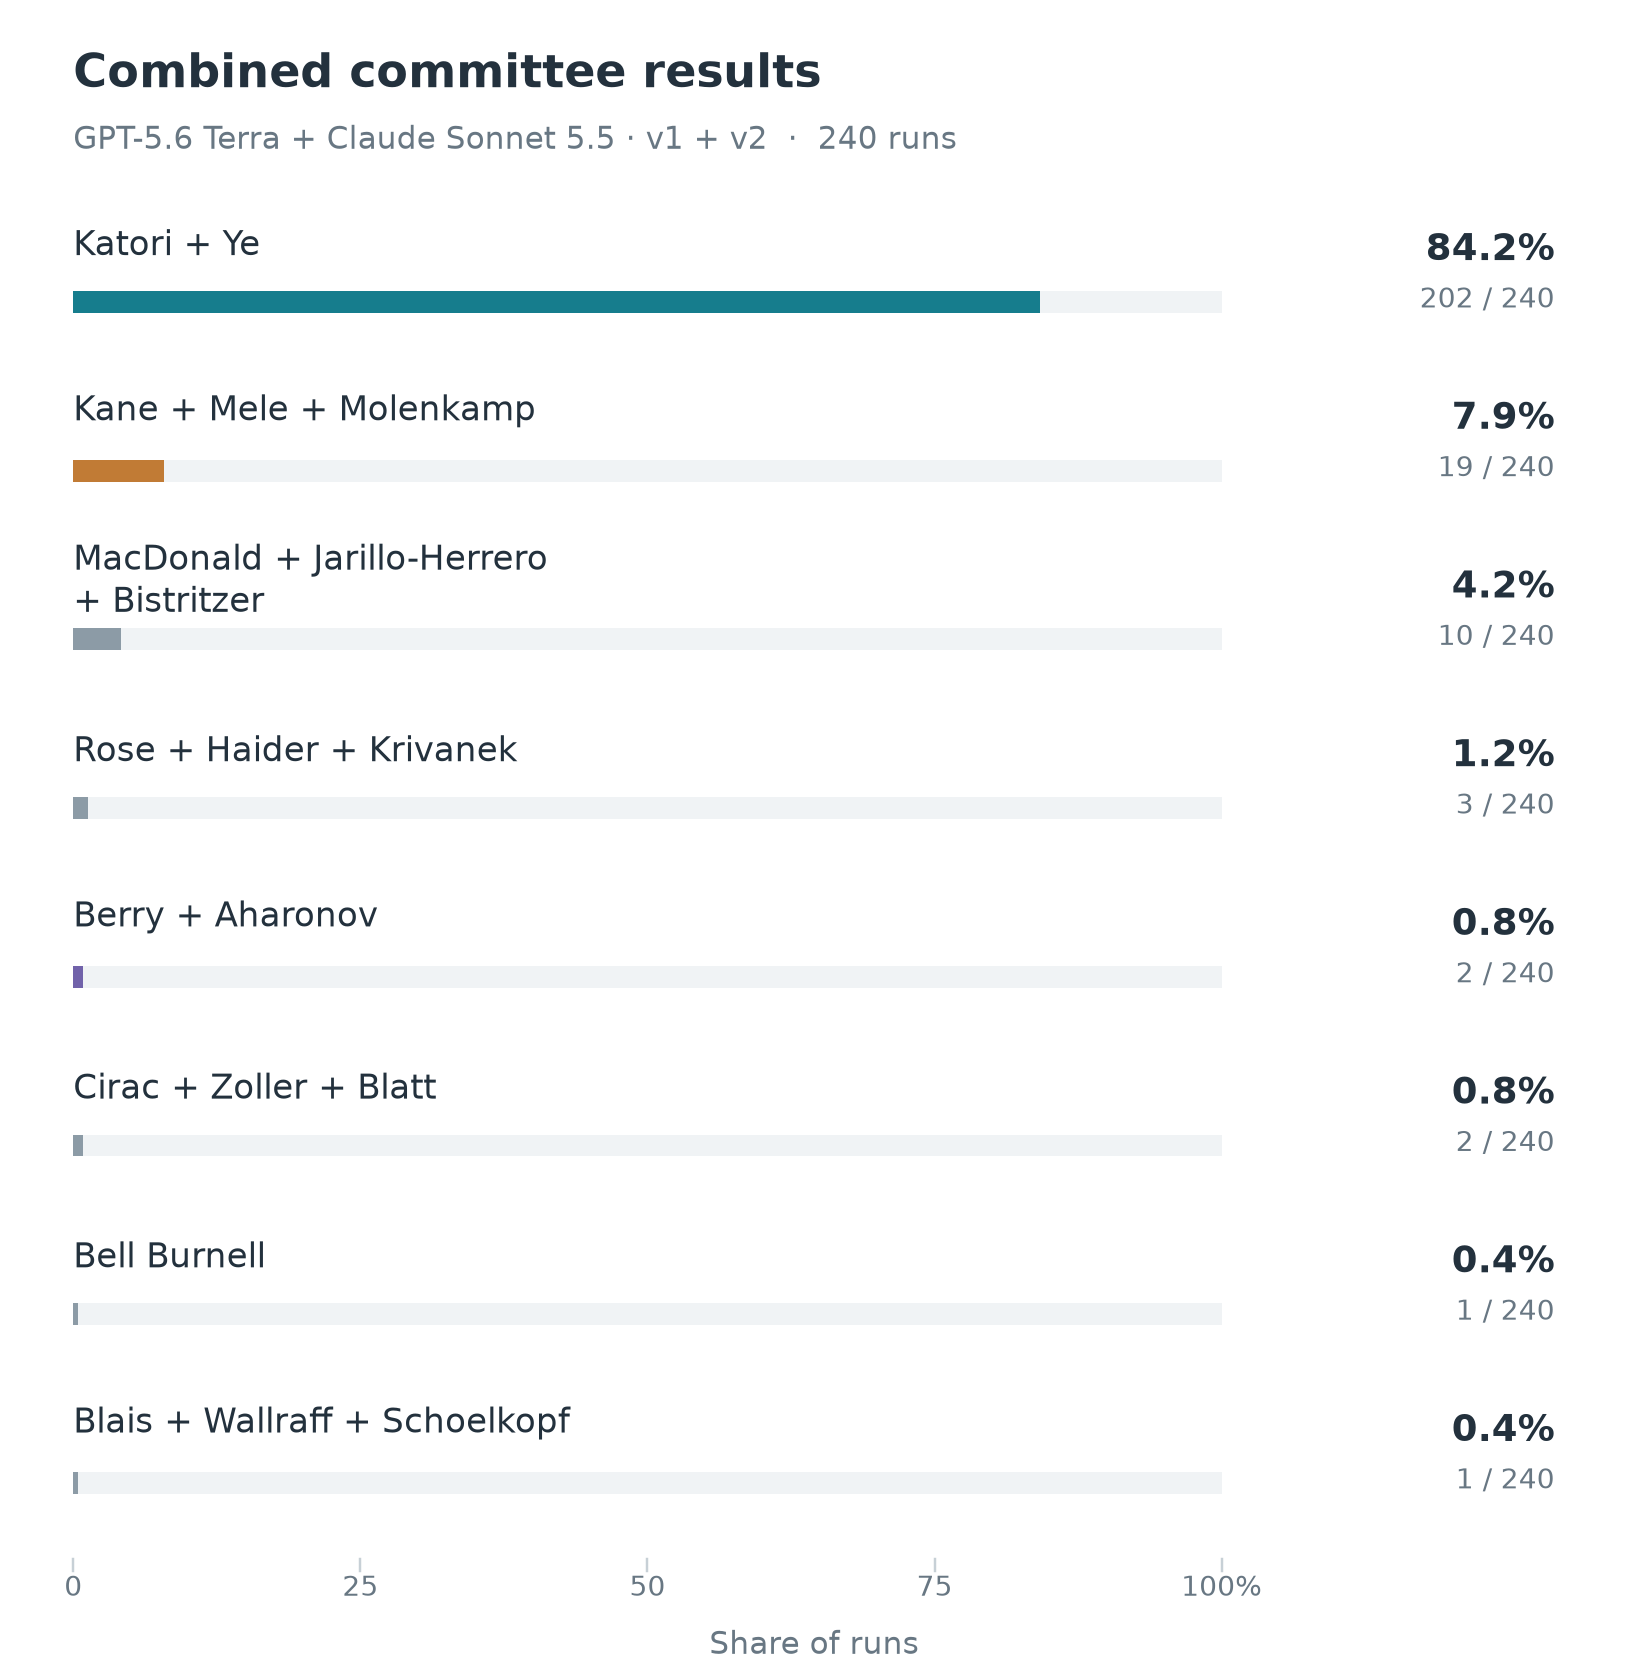
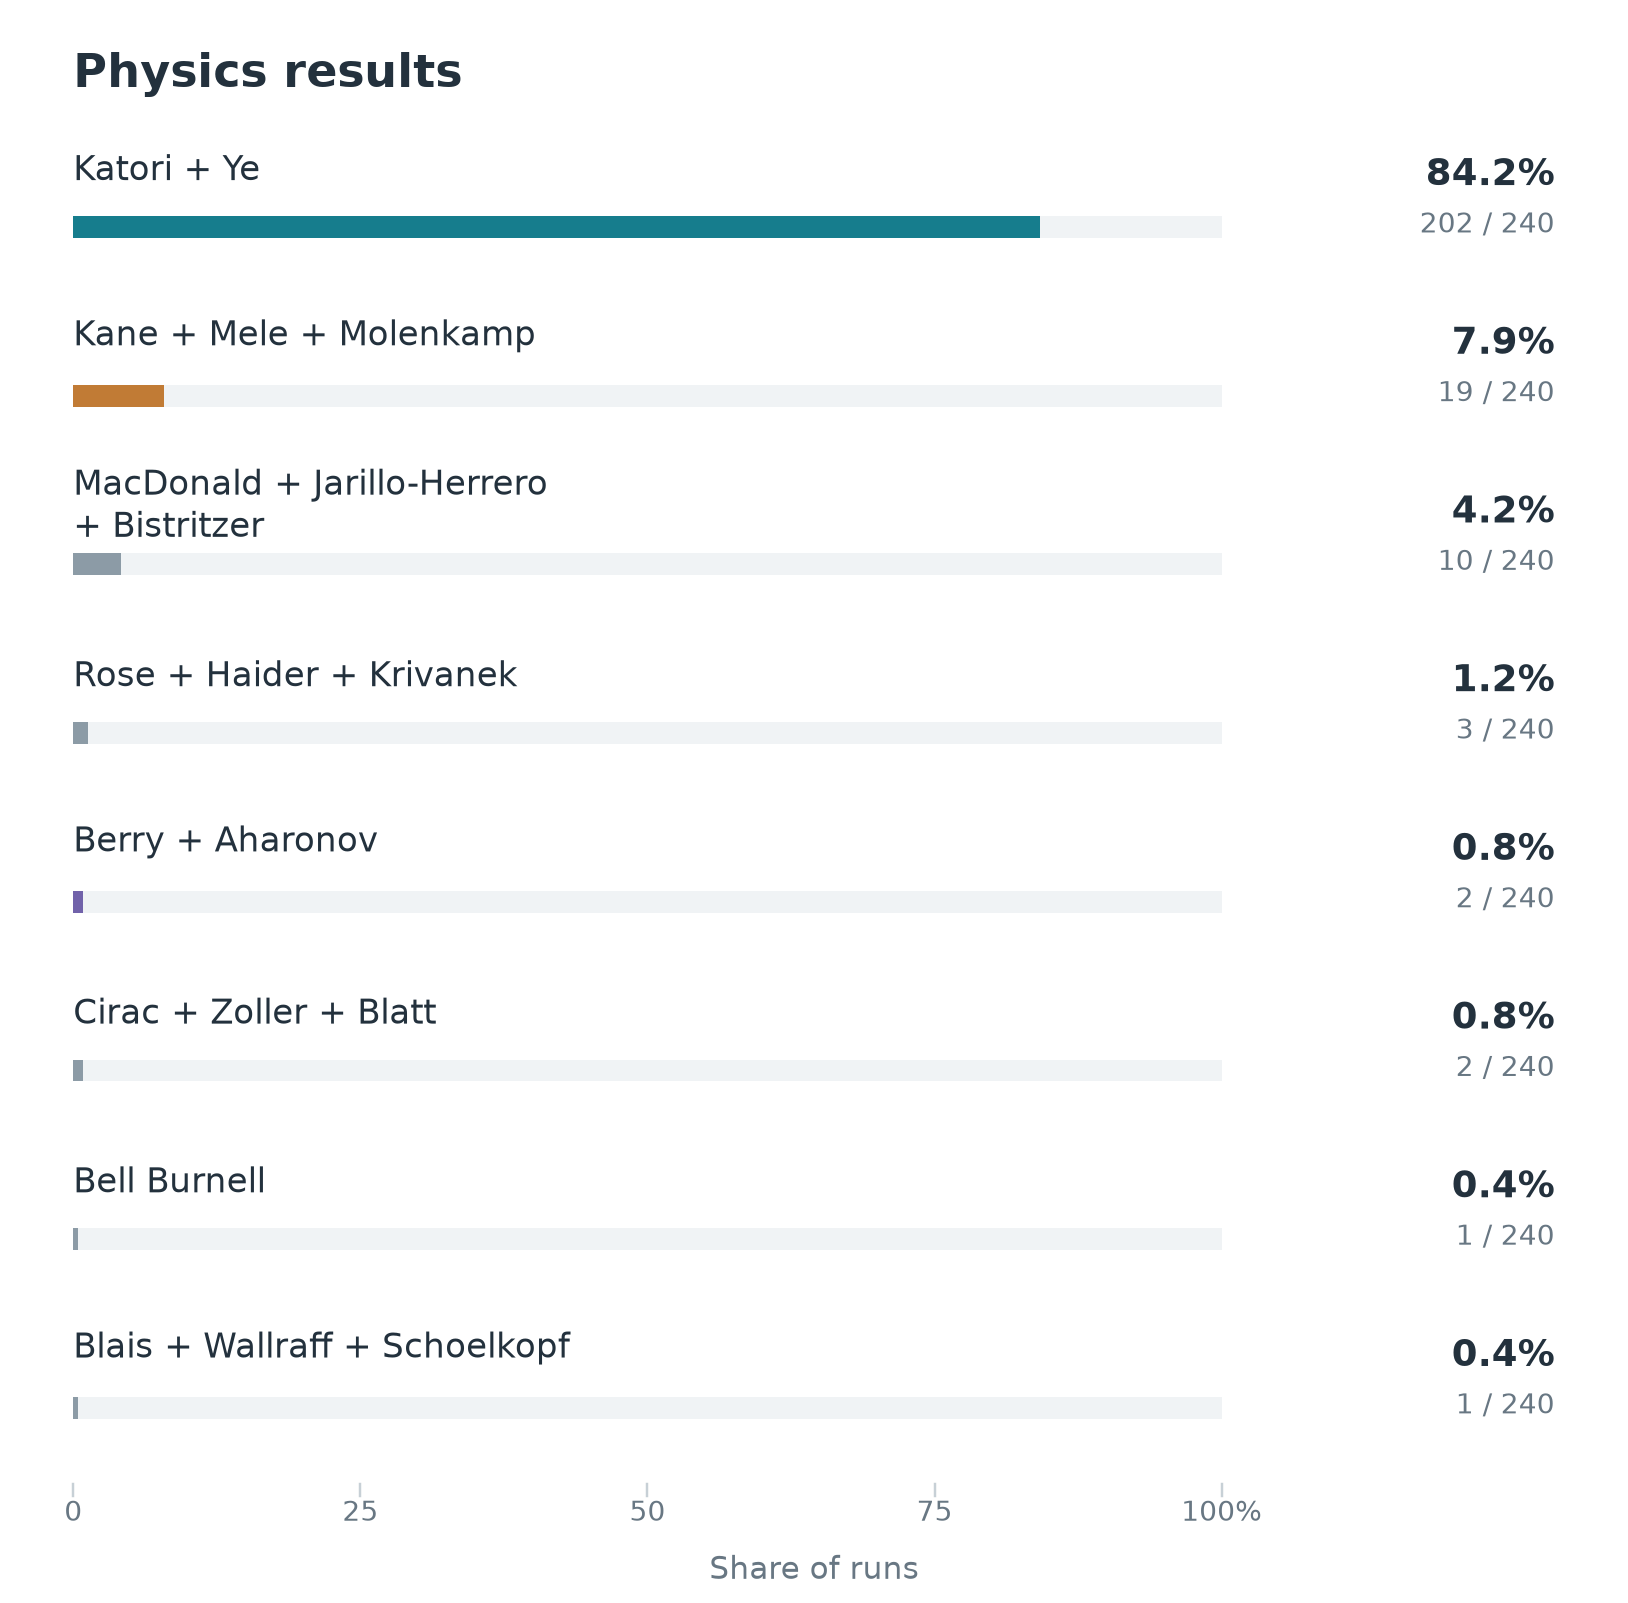
docs: simplify results presentation and move comparison details

diff --git a/scripts/plot_physics_prediction_distributions.py b/scripts/plot_physics_prediction_distributions.py
@@ -126,7 +126,7 @@ def display_label(label: str) -> str:
 def plot(
     filename: str,
     title: str,
-    subtitle: str,
+    subtitle: str | None,
     counts: Counter[str],
     row_count: int,
 ) -> None:
@@ -134,16 +134,18 @@ def plot(
     total = sum(counts.values())
     if total == 0:
         raise ValueError(f"No predictions available for {title}")
-    height = 1.55 + 0.76 * row_count
+    header_height = 1.55 if subtitle else 1.21
+    height = header_height + 0.76 * row_count
     figure = plt.figure(figsize=(7.4, height), facecolor="white")
     # Fixed margins and paired heights make all six charts comparable.
-    axis = figure.add_axes([0.045, 0.58 / height, 0.91, (height - 1.48) / height])
+    axis = figure.add_axes([0.045, 0.58 / height, 0.91, (height - (header_height - 0.07)) / height])
     axis.set_xlim(0, 129)
     axis.set_ylim(row_count - 0.28, -0.3)
     figure.text(0.045, 1 - 0.24 / height, title, color=INK,
                 fontsize=15, fontweight="bold", va="top")
-    figure.text(0.045, 1 - 0.57 / height,
-                f"{subtitle}  ·  {total} runs", color=MUTED, fontsize=10, va="top")
+    if subtitle:
+        figure.text(0.045, 1 - 0.57 / height,
+                    f"{subtitle}  ·  {total} runs", color=MUTED, fontsize=10, va="top")
 
     for row, (label, count) in enumerate(ordered):
         probability = 100 * count / total
@@ -194,8 +196,8 @@ def main() -> None:
             committee_counts.update(counts)
     plot(
         "physics-committee-aggregate-distribution.png",
-        "Combined committee results",
-        "GPT-5.6 Terra + Claude Sonnet 5.5 · v1 + v2",
+        "Physics results",
+        None,
         committee_counts,
         len(committee_counts),
     )

diff --git a/README.md b/README.md
@@ -1,14 +1,10 @@
 # Nobel Prize Forecasting 2026
 
-Forecast the 2026 Nobel Prizes by giving simulated committees a list of candidates, then repeating their deliberations and votes to compare the winning slates.
+We simulate Nobel Prize committee decisions to forecast the 2026 winners.
 
 ## Committee discussion
 
-**Candidate list → committee discussion → vote → winning slate.**
-
-Each candidate entry identifies a discovery or contribution and the people who could receive the prize for it. One agent per committee member, conditioned on that member's profile, reviews the list independently. The agents form a shortlist, hold two written discussion rounds with a chair synthesis between them, and cast private ranked ballots. A majority selects the winner; otherwise, an instant runoff transfers votes until a proposal wins. Repeat the committee simulation on the same candidate list to estimate each slate's share of wins. Save the assessments, discussion, ballots, and decisions so the results can be audited. The simulation ends at the committee decision, omitting subsequent ratification.
-
-See the [committee protocol](docs/PHYSICS_PHASE2.md) for the implemented deliberation and voting rules.
+One agent per committee member reviews the candidates, participates in two discussion rounds, and casts a private ranked ballot. A majority decides the winner, with an instant runoff when needed. The [protocol](docs/PHYSICS_PHASE2.md) documents the voting rules and saved records.
 
 ![Committee discussion workflow: private opening rankings, support-based shortlisting, two discussion rounds, chair synthesis, proposal construction, private final ballots, instant-runoff voting, and a saved decision](docs/figures/committee-discussion-workflow-v2.png)
 
@@ -16,24 +12,26 @@ See the [committee protocol](docs/PHYSICS_PHASE2.md) for the implemented deliber
 
 ### Physics
 
-![Aggregated Physics committee distribution across GPT-5.6 Terra and Claude Sonnet 5.5, with v1 and v2 profiles](docs/figures/physics-committee-aggregate-distribution.png)
+![Physics results](docs/figures/physics-committee-aggregate-distribution.png)
 
-This is the distribution obtained by aggregating **all 240 decisions from the four primary committee experiments**: GPT-5.6 Terra and Claude Sonnet 5.5, each with v1 and v2 profiles. Each experiment contributes 60 decisions; one-shot predictions are excluded. **Katori–Ye wins 202/240 decisions (84.2%)**.
+#### Proposed recognition
 
-The saved deliberations suggest two reasons for this concentration:
+- **Hidetoshi Katori and Jun Ye** for optical lattice atomic clocks and precision timekeeping.
+- **Charles L. Kane, Eugene J. Mele, and Laurens W. Molenkamp** for the theoretical prediction and experimental discovery of topological insulators and the quantum spin Hall effect.
+- **Allan H. MacDonald, Pablo Jarillo-Herrero, and Rafi Bistritzer** for magic-angle twisted bilayer graphene and moiré flat-band quantum matter.
+- **Harald Rose, Maximilian Haider, and Ondrej L. Krivanek** for aberration correction in electron microscopy, enabling sub-ångström imaging.
+- **Michael Berry and Yakir Aharonov** for geometric phases and the role of electromagnetic potentials in quantum interference.
+- **Ignacio Cirac, Peter Zoller, and Rainer Blatt** for quantum computation and simulation with trapped ions.
+- **Jocelyn Bell Burnell** for the discovery of pulsars.
+- **Alexandre Blais, Andreas Wallraff, and Robert J. Schoelkopf** for circuit quantum electrodynamics.
 
-1. **A consistent case from the atomic-physics members.** The simulated Stefan Kröll and Eva Lindroth have research backgrounds overlapping the atomic and precision-measurement physics behind Katori–Ye. They usually rank clocks highly and converge on a consistent case for the achievement's maturity, reproducibility, and attribution.
-2. **A broadly acceptable second choice.** Clocks provide a natural fallback when other members' preferred options divide support among topological insulators, magic-angle graphene, IceCube, and other candidates. Their established performance and relatively clear two-person attribution help attract agreement across those divisions, although the discussions still raise questions about timing and credit.
+In the simulations, Kröll and Lindroth make a consistent case for clocks, drawing on overlapping expertise. Clocks also attract second-choice support as other members split among topological insulators, magic-angle graphene, IceCube, and other options.
 
-These are interpretations of the simulated discussions, rather than claims about the real committee's preferences.
+#### Simulation variants
 
-#### Breakdown by model and profile
+The result above pools four experiments: **GPT-5.6 Terra and Claude Sonnet 5.5, each with v1 and v2 profiles**. Each experiment combines 12 candidate lists and five fresh committees per list: **60 decisions per experiment, 240 in total**. Those lists come from six nomination runs for each of two independently drafted nominator lists.
 
-Each of the four distributions below already aggregates substantial variation: **two independently drafted nominator lists × six nomination runs per list × five fresh committee simulations per candidate list = 60 decisions per experiment**. Each plot therefore combines 12 candidate lists and repeated deliberations, rather than showing a single committee conversation.
-
-**v1** uses the original `profile_v1.md` files, including inferred personality traits and evaluative preferences. For **v2**, we rewrote the profiles as more neutral, factual `profile_v2.md` files, retaining documented expertise while removing speculative personality and prize-selection preferences. The aim was to bias the simulated committees less through the profile text. The candidate lists and deliberation protocol stay the same.
-
-Neutral profiles (**v2**) appear first, followed by original profiles (**v1**); OpenAI is on the left and Claude on the right.
+**v1** uses the original member profiles. **v2** keeps documented expertise but removes inferred personality traits and selection preferences, aiming to bias the committees less. Candidate lists and discussion rules are unchanged. The plots show v2 first, then v1.
 
 <table>
   <tr>
@@ -46,9 +44,9 @@ Neutral profiles (**v2**) appear first, followed by original profiles (**v1**); 
   </tr>
 </table>
 
-#### One-shot comparison
+#### Appendix: one-shot comparison
 
-For comparison, the final two graphs show **one-shot forecasts from our most advanced baseline models: GPT-6.1 Sol and Claude Opus 5.5**. Each model receives only the fixed question asking who will win the 2026 Nobel Prize in Physics, with no candidate list, member profiles, or committee discussion. Each distribution aggregates 60 predictions and is kept separate from the committee aggregate above.
+For comparison, we asked **GPT-6.1 Sol and Claude Opus 5.5** who would win, without simulating a committee. Each graph summarizes 60 independent answers.
 
 <table>
   <tr>
@@ -57,35 +55,27 @@ For comparison, the final two graphs show **one-shot forecasts from our most adv
   </tr>
 </table>
 
-#### Proposed recognition
+Additional slates appearing in this comparison:
 
-- **Hidetoshi Katori and Jun Ye** for optical lattice atomic clocks and precision timekeeping.
-- **Charles L. Kane, Eugene J. Mele, and Laurens W. Molenkamp** for the theoretical prediction and experimental discovery of topological insulators and the quantum spin Hall effect.
-- **Michael Berry and Yakir Aharonov** for geometric phases and the role of electromagnetic potentials in quantum interference.
 - **John Pendry and David R. Smith** for electromagnetic metamaterials, negative refraction, and transformation optics.
 - **John Pendry, David R. Smith, and Ulf Leonhardt** for metamaterials and transformation optics, including optical cloaking proposals.
 - **John Pendry, David R. Smith, and Nader Engheta** for metamaterials and engineered electromagnetic response.
-- **Allan H. MacDonald, Pablo Jarillo-Herrero, and Rafi Bistritzer** for magic-angle twisted bilayer graphene and moiré flat-band quantum matter.
-- **Harald Rose, Maximilian Haider, and Ondrej L. Krivanek** for aberration correction in electron microscopy, enabling sub-ångström imaging.
-- **Ignacio Cirac, Peter Zoller, and Rainer Blatt** for quantum computation and simulation with trapped ions.
 - **Ignacio Cirac, Immanuel Bloch, and Peter Zoller** for quantum simulation of many-body physics with ultracold atoms in optical lattices.
-- **Jocelyn Bell Burnell** for the discovery of pulsars.
-- **Alexandre Blais, Andreas Wallraff, and Robert J. Schoelkopf** for circuit quantum electrodynamics.
 - **Eli Yablonovitch and Sajeev John** for photonic crystals and photonic band gaps that control light propagation.
 - **Eli Yablonovitch, Sajeev John, and John Pendry** for photonic band-gap crystals and metamaterials for controlling light.
 
 ### Chemistry
 
-Committee results pending; simulations will start from a supplied candidate list.
+Results pending.
 
 ### Physiology or Medicine
 
-Candidate lists prepared; committee results pending.
+Results pending.
 
 ### Economic Sciences
 
-Committee results pending; simulations will start from a supplied candidate list.
+Results pending.
 
 ### Peace
 
-Committee results pending; simulations will start from a supplied candidate list.
+Results pending.
